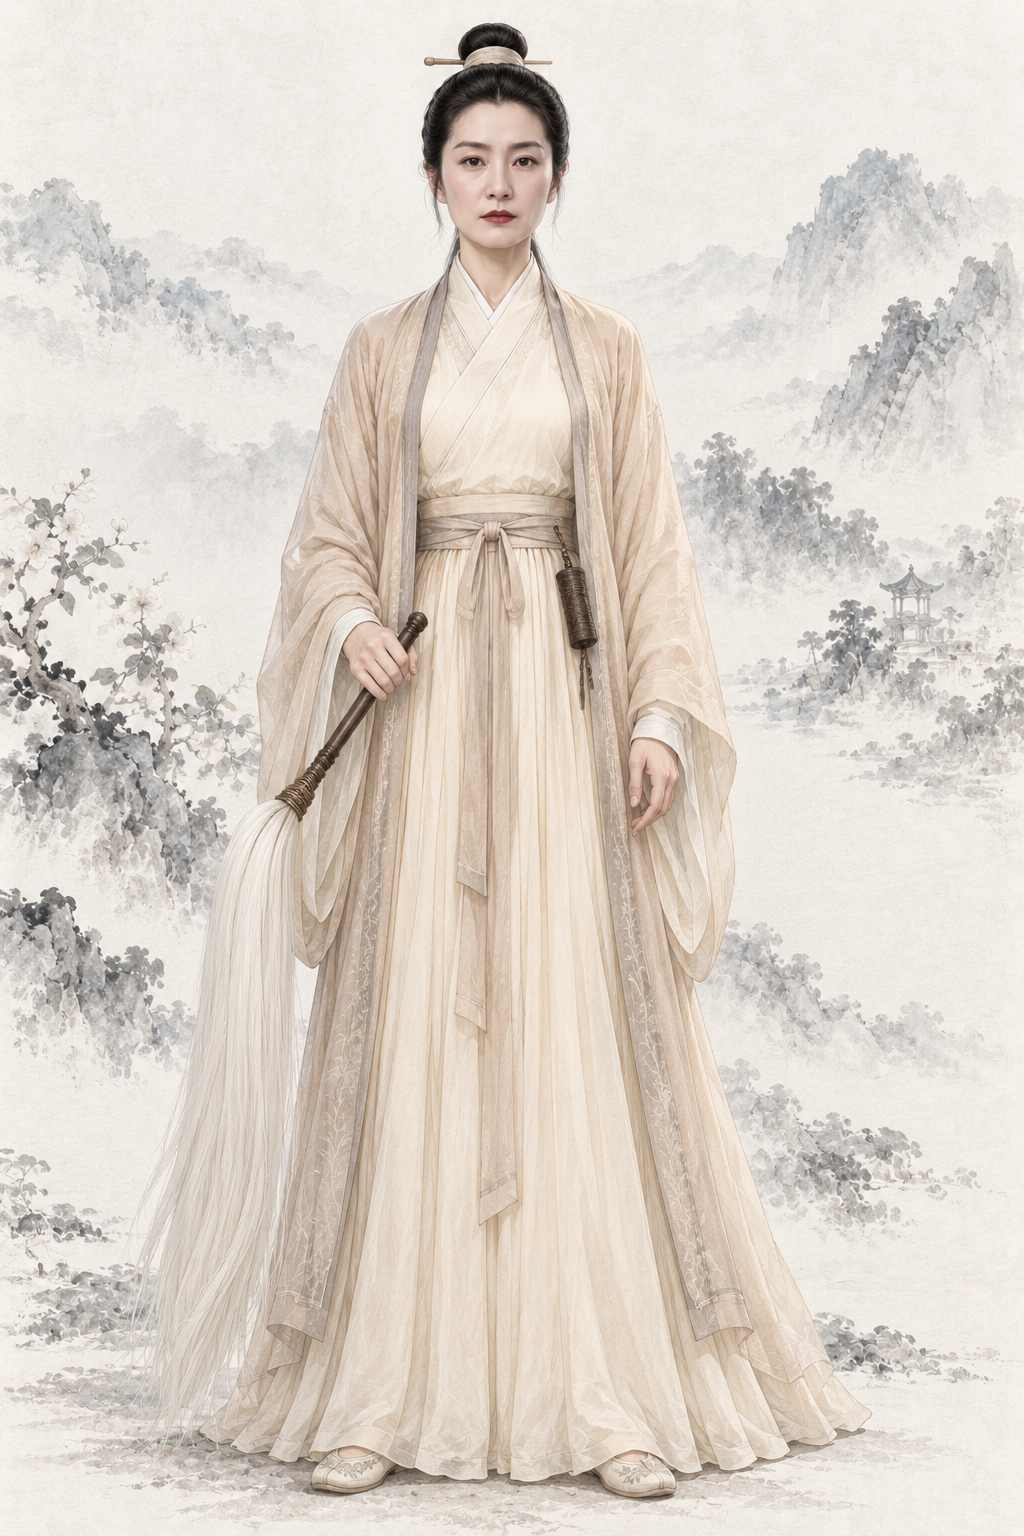
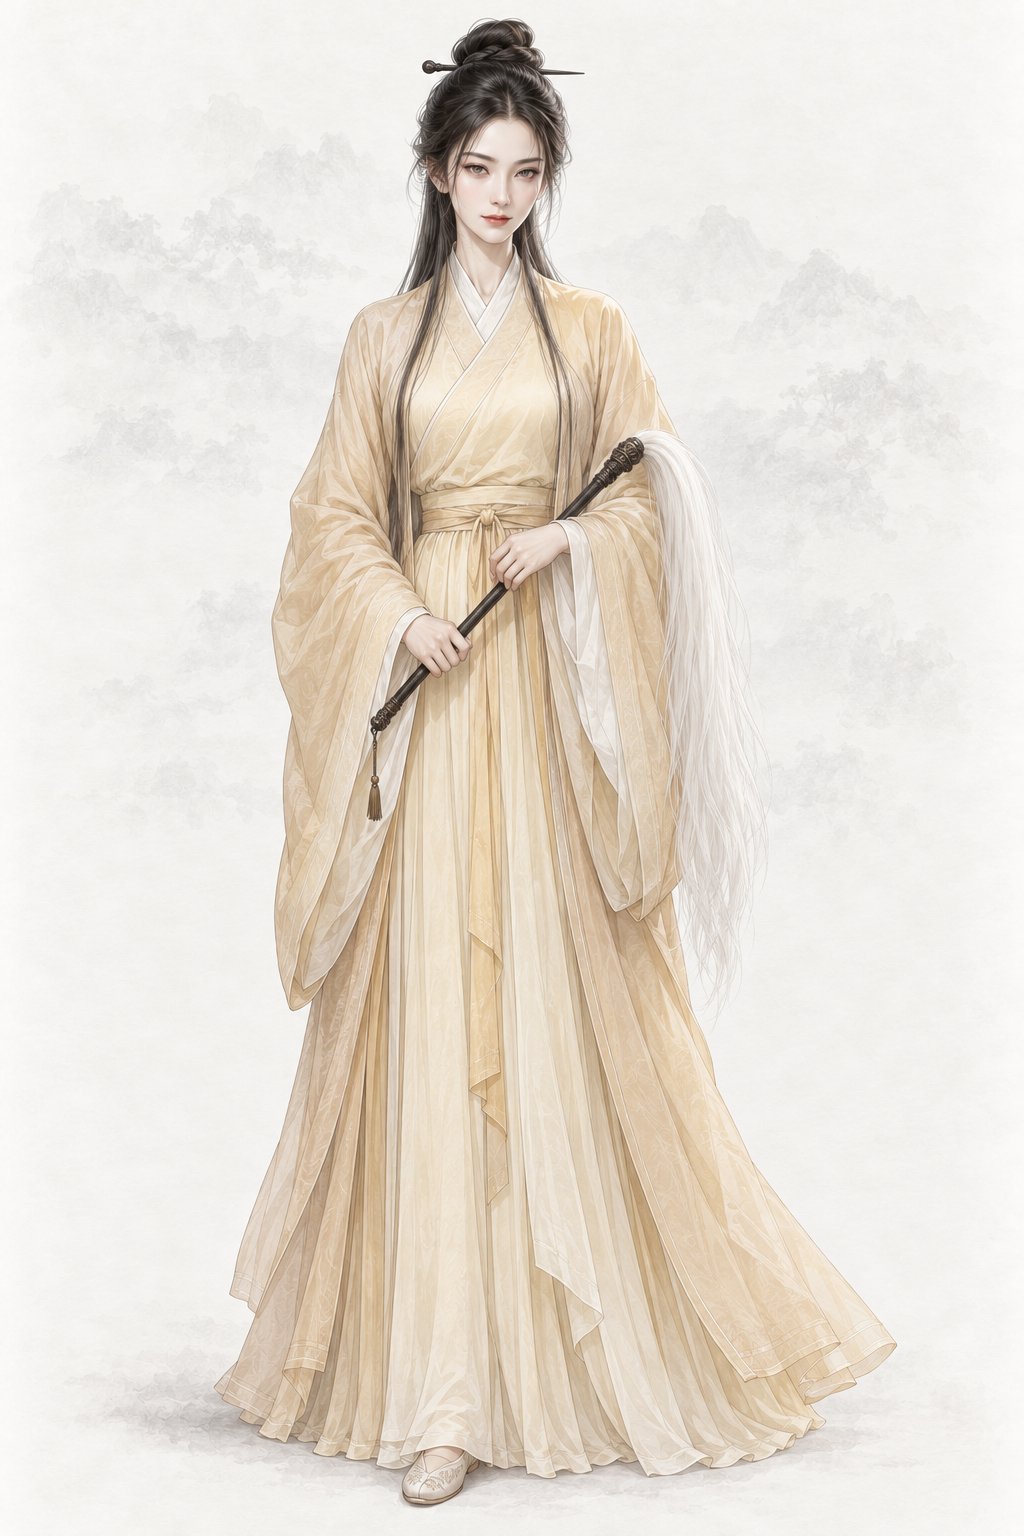
assets(character): por_npc_limochou__ch03_prime_base 李莫愁（codex）
AR-31：重要人物加经典造型文字描写（原创面孔，不写演员名、不传剧照）

diff --git a/assets/default/prompts/characters/ch03-shendiao/npc_limochou.md b/assets/default/prompts/characters/ch03-shendiao/npc_limochou.md
@@ -20,11 +20,32 @@ realism_revision: user_identity_pose_20261001
 redo_reason: "面容源自 1995 版剧照（肖像风险）且衣色不合原著，按原著“杏黄道袍、拂尘、明眸皓齿、三十来岁望之如二十许、美而狠”重做"
 reference_upload:
 - assets/default/baseline/character/female/ref_npc_wangyuyan__ch01_base01.png
+codex_prompt_rev: 2026-10-02
 ---
 
 # 李莫愁 · 人物写实修正
 
 ## Gemini 提示词
+
+> 2026-10-02 AR-31 改写（1 号出图员，codex exec · image_gen 出图）：重要人物借鉴经典影视造型，只写成文字——不写演员名、不上传剧照、原创面孔；主角和美人画得好看，去 AI 味，禁止幼态。出图时上传两张同性别基线立绘作画风参考（放在最后）。审核组原稿保留在下一节作历史。
+
+```text
+生成一张 2:3 竖幅全身人物立绘：单人、单一视角、完整全身——头顶、双手、双脚和手中器物的两端都在画面内，四周留出自然空白；人物站姿自然，身体基本朝向正面，头部端正（不歪头、不仰不俯），镜头平视。
+【画风】写实手绘古风人物插画，与本项目写实武侠角色立绘同一画风：人物是完整、坚实、比例真实的写实绘画；皮肤有真实质感——细小毛孔、细纹、晒痕、轻微色斑和自然的左右不对称，不磨皮、不油亮；头发有一根根的发丝和自然碎发；布料看得出经纬纹理、厚薄和自然垂坠的褶皱，带穿用过的轻微旧化，但完整不破烂；整体设色低饱和、沉稳；柔和的自然光从左上方照来，明暗过渡自然，不打舞台光、轮廓光或美颜柔光。这是手绘写实绘画，不是照片，不是三维渲染，也不是动漫或游戏 CG。
+【背景】不透明的暖浅灰色纸底，只在远处有极淡的水墨远山和薄雾，大面积留白；人物与背景明暗分明、轮廓边缘干净完整（后续要自动抠图），水墨和纸纹只在背景里，不侵入人物和衣服；脚下只有很淡的一点接触阴影。
+【人物】李莫愁，《神雕侠侣》古墓派叛徒，人称“赤练仙子”；情场失意后心狠手辣、杀人如麻，却又美艳动人。
+【年龄与体态】原著三十来岁，却望之如二十许人；身材修长窈窕。成年女性的身体比例（约 7 头身），衣着完整端庄、不透明、不暴露、不性感化。
+【经典造型】借鉴经典武侠影视里这个角色深入人心的造型，只取发型、装束、配色、标志道具、气质和脸型类型，用原创面孔画出来，不像任何真实演员：赤练仙子——杏黄道袍、手持拂尘，美艳动人而眼含寒意，温柔的笑里藏着杀机。
+【面容】原著写她明眸皓齿、肤色白腻、美目流盼、桃腮带晕、神态娇媚。具体为：瓜子脸、颧骨略高，眉毛细长入鬓、眉尾上挑，一双妩媚的桃花眼，眼波流转却透着寒意；鼻梁挺秀；唇色红润、嘴角含着温柔却冰冷的笑；肌肤白腻、两颊微红（原创扩展）。美艳动人。
+【发式】乌发挽成道髻，插一支乌木簪（道姑装束）。
+【服饰】原著穿杏黄道袍：杏黄色交领右衽宽袖道袍，白色内领，腰系杏黄丝绦，布鞋。
+【道具】右手持一柄白色马尾拂尘（乌木柄），拂尘搭在左臂弯里。
+【姿态与神情】亭亭而立，笑意温柔、眼神冷厉——美丽而危险。
+【不要】画面里不要任何文字、题款、印章、签名、水印、边框、分格或多视图；不要第二个人；不要幼态（童颜、娃娃脸、婴儿肥、儿童或少年身材、大头小身）；不要塑料感皮肤、磨皮美颜、网红脸（尖下巴大眼高鼻的模板脸）、过度对称、浓妆、偶像式打光、蜡像感；不要照片质感、三维渲染或动漫大眼；不要歪头、斜镜头；不要多指、缺指（设定的伤残除外）、手与器物粘连或悬空；汉式交领必须右衽（穿着者的左襟压在右襟上），不要左衽（设定为少数民族服制的除外），不要水平镜像；不要现代物品、发光特效、法阵或能量光。不要白衣或米白仙女裙；不要血腥画面；不要冰魄银针飞射特效；不要像任何具体演员。
+【画风基线】随提示词上传的参考图里，最后两张是本项目的立绘画风基线：只参考它们的画风、用色、光线、质感和暖浅灰纸底加淡水墨的背景处理，整体画风必须与它们一致——精细写实的数字手绘插画，不是油画，不要厚涂笔触和画布纹理。参考图只取画风、光线、质感和背景处理，不取长相：不要照搬基线图里人物的长相、年龄、发型、服饰和姿势。
+```
+
+## 审核组 Gemini 提示词（2026-10-02 AR-30 重审稿；AR-31 改写前，历史，不再用于出图）
 
 > 2026-10-02 重要人物立绘重审（A 组，`tools/agents/reports/REVIEW-portraits-A-ch00-04.md`）：**整体重出**。面容源自 1995 版剧照（肖像风险）且衣色不合原著，按原著“杏黄道袍、拂尘、明眸皓齿、三十来岁望之如二十许、美而狠”重做。
 > 本条不上传任何参考图（`reference_upload: []`）；frontmatter 的 `references` 与本节以下内容是旧出图管线的历史记录，不再用于出图。
